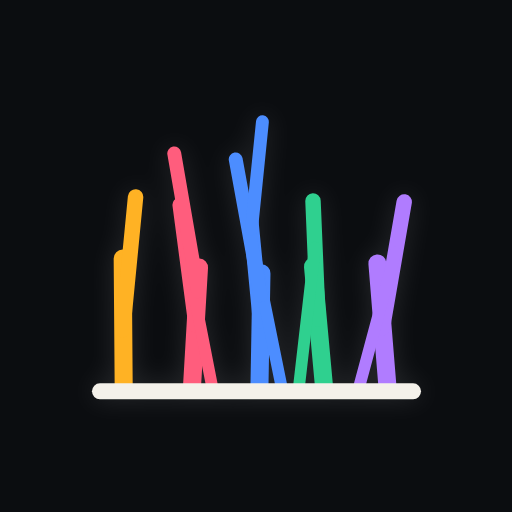
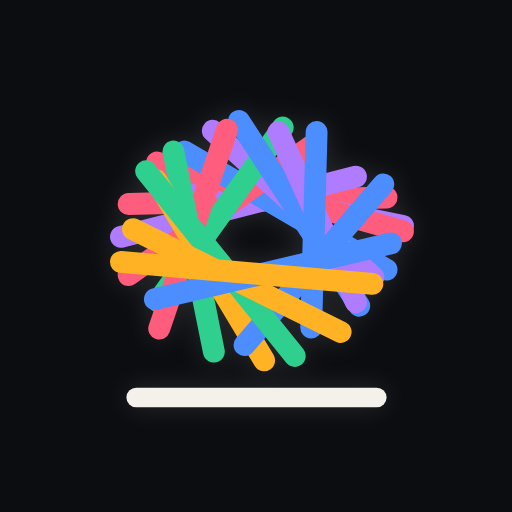
Wertegerüst: Gerüst als Tensegrity-Wolke aus bunten Stäben, von Spannseilen gehalten, mit Legende der Stützen
Claude-Session: https://claude.ai/code/session_019JxwgCXWc8WfoLy2FpCM1A

Changed region(s): [[0.1562, 0.2188, 0.8438, 0.8125]]

diff --git a/wertegeruest/index.html b/wertegeruest/index.html
@@ -411,6 +411,31 @@ textarea:focus,input:focus{outline:none;border-color:var(--muted)}
 .slot .psvg{width:100%;height:84px;display:block}
 .slot{min-height:0;justify-content:flex-start;padding-top:8px}
 .lead+.muted{margin-top:12px}
+/* Tensegrity-Wolke */
+.gsvg .cb{stroke:var(--lit);stroke-width:.9;opacity:.38}
+.gsvg .ft{stroke:var(--lit);stroke-width:.9;opacity:.45;stroke-dasharray:none}
+.gsvg .ft.gh{stroke:var(--ghost);stroke-dasharray:2 5;opacity:1}
+.gsvg .br{stroke-width:2.4;stroke-dasharray:none;opacity:.95}
+.gsvg .hitl{stroke:transparent;stroke-width:16;cursor:pointer}
+.gsvg .nd{r:2.2;stroke-width:1.2}
+.gsvg.sel .cb{opacity:.15}
+.gsvg .glow line{stroke-width:9;opacity:.35}
+.fundlbl{text-align:center;font-family:var(--f-mono);font-size:10px;letter-spacing:.24em;text-transform:uppercase;color:var(--muted);margin-top:-2px;cursor:pointer}
+.glegend{display:grid;grid-template-columns:repeat(5,1fr);gap:6px;margin-top:16px}
+.lg{position:relative;overflow:hidden;display:flex;flex-direction:column;align-items:center;gap:7px;border:1px solid var(--line);border-radius:10px;background:none;padding:10px 4px 9px;cursor:pointer;min-width:0;transition:border-color .4s,background-color .4s}
+.lg .nm{font-size:11px;font-weight:600;color:var(--c);line-height:1.2;text-align:center;overflow-wrap:normal;word-break:normal;hyphens:manual}
+.lg .pips{display:flex;gap:3px}
+.lg .pips i{width:6px;height:6px;border-radius:50%;border:1px solid color-mix(in srgb,var(--c) 55%,transparent)}
+.lg .pips i.on{background:var(--c);border-color:var(--c)}
+.lg.on{border-color:var(--c);background:color-mix(in srgb,var(--c) 10%,transparent)}
+.lg.free{border-style:dashed;border-color:var(--ghost)}
+.lg.free .nm{color:var(--faint);font-family:var(--f-mono);font-weight:400;font-size:10px;letter-spacing:.1em}
+.lg .sw0{width:30px;height:6px}
+.slot .psvg{height:70px}
+.gsvg.sel .rod:not(.on){opacity:.16!important}
+.gsvg.sel .glow{opacity:.3}
+.steps5 li i{width:18px;height:4px;border-radius:2px;border:0;background:var(--ghost);transform:rotate(-24deg)}
+.steps5 li.ok i{background:var(--c,var(--lit))}
 
 </style>
 
@@ -1090,59 +1115,57 @@ const isWordBreak=id=>{const b=HY[id].split("-")[1];return b[0]===b[0].toLowerCa
 const two=id=>{const n=W[id].n;if(n.length<=9||!HY[id])return [n];const [a,b]=HY[id].split("-");return [a+(isWordBreak(id)?"-":""),b]};
 const shy=id=>HY[id]&&W[id].n.length>9?HY[id].replace("-",isWordBreak(id)?"&shy;":" "):W[id].n;
 
-/* Großes Gerüst: bunte Stäbe, die sich wie in einer Rauminstallation kreuzen und verbinden */
-const GY=300,PX=i=>48+i*66;
-const SHORT={zukunftsverantwortung:"Verantwortung",ehrfurcht:"Ehrfurcht",naturverbundenheit:"Naturverbunden",verantwortlichkeit:"Verantwortlich"};
+/* Das Gerüst als Tensegrity: Stäbe, die sich nicht stützen, sondern von Spannung gehalten werden.
+   Jedes Bauteil ist ein Stab. Zusammen bilden sie eine Wolke, die umso runder und dichter wird, je mehr gebaut ist.
+   Seile zwischen benachbarten Stabenden halten alles zusammen; geklärte Spannungen aus Belastungsproben werden zu farbigen Spannseilen. */
+const CX=180,CY=146,RX=136,RY=112,BASE=292,GA=137.508*Math.PI/180;
+const SHORT={zukunftsverantwortung:"Verantwortung",ehrfurcht:"Ehrfurcht"};
 const rnd=(seed,k)=>(hashStr(seed+"#"+k)%1000)/1000;
-const lerp=(p,q,t)=>[p[0]+(q[0]-p[0])*t,p[1]+(q[1]-p[1])*t];
-/* Fünf Stäbe pro Stütze: Ständer, Verlängerung, Strebe, zweiter Ständer, Krone. Die Lage hängt vom Wert ab, so wird jedes Gerüst ein wenig anders. */
-function rodsFor(seed,i){const bx=PX(i),r=k=>rnd(seed,k);
-  const P0=[bx-4+r(1)*8,GY],A=[bx+(r(2)-.5)*24,GY-112-r(3)*16];
-  const B0=lerp(P0,A,.42+r(4)*.16),B=[bx+(r(5)-.5)*38,GY-176-r(6)*16];
-  const side=r(7)>.5?1:-1,C0=[bx+side*(21+r(8)*8),GY],C1=lerp(B0,B,.6);
-  const D0=lerp(P0,A,.8),D=[bx-side*(9+r(9)*13),GY-226-r(10)*14];
-  const E0=lerp(B0,B,.82),E=[bx+(r(11)-.5)*22,GY-262-r(12)*10];
-  return [{a:P0,b:A,w:7},{a:B0,b:B,w:6},{a:C0,b:C1,w:4.6},{a:D0,b:D,w:5.4},{a:E0,b:E,w:5}]}
-function ext(a,b,e){const dx=b[0]-a[0],dy=b[1]-a[1],L=Math.hypot(dx,dy)||1;return [a[0],a[1],b[0]+dx/L*e,b[1]+dy/L*e]}
+function ext(a,b,e){const dx=b[0]-a[0],dy=b[1]-a[1],L=Math.hypot(dx,dy)||1;return [a[0]-dx/L*e,a[1]-dy/L*e,b[0]+dx/L*e,b[1]+dy/L*e]}
 const ln=(p,cls,extra)=>`<line class="${cls}" x1="${p[0].toFixed(1)}" y1="${p[1].toFixed(1)}" x2="${p[2].toFixed(1)}" y2="${p[3].toFixed(1)}" ${extra||""}/>`;
-const seedOf=(id,i)=>id||"frei"+i;
+/* Stab n (0 bis 24): Bauteil k der Stütze i liegt auf Platz n = k*5+i. Der goldene Winkel verteilt die Stäbe so, dass die Wolke in jedem Baustand ausgewogen ist. */
+function rod(n,seed){const j=k=>rnd(seed||"plan",n*7+k);
+  const t1=Math.PI/2+n*GA+(j(1)-.5)*.18,span=(118+j(2)*26)*Math.PI/180,t2=t1+span,r1=.8+j(3)*.2,r2=.8+j(4)*.2;
+  const a=[CX+RX*r1*Math.cos(t1),CY+RY*r1*Math.sin(t1)],b=[CX+RX*r2*Math.cos(t2),CY+RY*r2*Math.sin(t2)];
+  const z=Math.sin(t1+span/2);return {a,b,z,w:5.2+z*1.6}}
+const slotsNow=()=>[0,1,2,3,4].map(i=>S.kern[i]||null);
+function builtRods(slots){const out=[];slots.forEach((id,i)=>{if(!id)return;const l=level(id);for(let k=0;k<l;k++)out.push(Object.assign(rod(k*5+i,id),{id,k,i,cat:W[id].cat}))});return out.sort((p,q)=>p.z-q.z)}
+function cables(rods){const pts=[];rods.forEach((r,ri)=>{pts.push([r.a,ri]);pts.push([r.b,ri])});const set=new Set(),out=[];
+  pts.forEach(([p,ri],pi)=>{pts.map(([q,rj],qi)=>[Math.hypot(p[0]-q[0],p[1]-q[1]),qi,rj]).filter(x=>x[2]!==ri).sort((x,y)=>x[0]-y[0]).slice(0,2).forEach(([d,qi])=>{const k=Math.min(pi,qi)+"|"+Math.max(pi,qi);if(!set.has(k)&&d<120){set.add(k);out.push([p,pts[qi][0]])}})});return out}
 function geruestSVG(){
-  const slots=[0,1,2,3,4].map(i=>S.kern[i]||null),ns=nextStep(),R=slots.map((id,i)=>rodsFor(seedOf(id,i),i)),L=slots.map(id=>id?level(id):0);
-  let defs="",ghost="",glowS="",body="",nodes="",lbl="",hit="";
+  const slots=slotsNow(),ns=nextStep(),rods=builtRods(slots);let defs="",ghost="",glowS="",body="",nodes="",net="",ties="";
   const grad=(gid,p,c1,c2)=>{defs+=`<linearGradient id="${gid}" gradientUnits="userSpaceOnUse" x1="${p[0].toFixed(1)}" y1="${p[1].toFixed(1)}" x2="${p[2].toFixed(1)}" y2="${p[3].toFixed(1)}"><stop offset="0" style="stop-color:var(--c-${c1})"/><stop offset="1" style="stop-color:var(--c-${c2})"/></linearGradient>`;return `url(#${gid})`};
-  slots.forEach((id,i)=>{for(let k=L[i];k<5;k++){const rd=R[i][k],nx=(id&&ns.id===id&&k===L[i])||(!id&&!ns.id&&i===S.kern.length&&k===0);
-    ghost+=ln(ext(rd.a,rd.b,4),nx?"gh nx":"gh",nx&&id?`style="stroke:var(--c-${W[id].cat})"`:"")}});
-  for(let k=0;k<5;k++){
-    slots.forEach((id,i)=>{if(!id||k>=L[i])return;const rd=R[i][k],p=ext(rd.a,rd.b,k===0?5:8),c=W[id].cat;
-      body+=ln(p,"gap",`data-gap="${id}:${k}" style="stroke-width:${rd.w+4}"`)+ln(p,"rod",`data-seg="${id}:${k}" pathLength="100" style="stroke:var(--c-${c});stroke-width:${rd.w}"`);
-      glowS+=ln(p,"",`style="stroke:var(--c-${c})"`);nodes+=`<circle class="nd" cx="${rd.b[0].toFixed(1)}" cy="${rd.b[1].toFixed(1)}" r="${k===4?4.2:2.8}" ${k===4?`style="fill:var(--c-${c});stroke:var(--lit)"`:""}/>`});
-    /* Verbindungen zu Nachbarn: je höher beide stehen, desto dichter das Geflecht */
-    if(k>=1)for(let i=0;i<4;i++){const a=slots[i],b=slots[i+1];if(!a||!b||Math.min(L[i],L[i+1])<=k)continue;
-      const P=k%2?[R[i][k].b,R[i+1][k-1].b]:[R[i][k-1].b,R[i+1][k].b];const p=[P[0][0],P[0][1],P[1][0],P[1][1]],q=[p[0]-(p[2]-p[0])*.06,p[1]-(p[3]-p[1])*.06,p[2]+(p[2]-p[0])*.06,p[3]+(p[3]-p[1])*.06];
-      body+=ln(q,"gap pkgap",`style="stroke-width:7.5"`)+ln(q,"pk",`style="stroke:${grad(`pg${i}${k}`,q,W[a].cat,W[b].cat)}"`)}}
-  /* Streben aus Abwägungen: lange, dünne Stäbe quer durchs Gerüst */
-  braces().forEach(([a,b],n)=>{const i=slots.indexOf(a),j=slots.indexOf(b);if(i<0||j<0)return;const [p,q]=i<j?[i,j]:[j,i];const h=Math.max(1,Math.min(L[p],L[q]));
-    const e=ext(R[p][0].a,R[q][h-1].b,10);body+=ln(e,"gap brgap",`style="stroke-width:5.5"`)+ln(e,"br",`style="stroke:${grad(`bg${n}`,e,W[slots[p]].cat,W[slots[q]].cat)}"`)});
-  slots.forEach((id,i)=>{const row=i%2?GY+40:GY+22;
-    if(!id){lbl+=`<text class="lb free" x="${PX(i)}" y="${row}" text-anchor="middle">frei</text>`;hit+=`<rect class="hit" data-slot="${i}" x="${PX(i)-33}" y="20" width="66" height="${GY+30}" role="button" aria-label="Freier Platz, Werte finden"/>`;return}
-    const w=W[id],nm=SHORT[id]||w.n;lbl+=`<line class="ld" x1="${PX(i)}" y1="${GY+6}" x2="${PX(i)}" y2="${row-11}" style="stroke:var(--c-${w.cat})"/><text class="lb" x="${Math.min(352-nm.length*3.1,Math.max(8+nm.length*3.1,PX(i)))}" y="${row}" text-anchor="middle" style="fill:var(--c-${w.cat})">${nm}</text>`;
-    hit+=`<rect class="hit" data-pil="${id}" x="${PX(i)-33}" y="20" width="66" height="${GY+30}" role="button" tabindex="0" aria-label="${w.n}, Stufe ${L[i]} von 5"/>`});
-  return `<svg class="gsvg" viewBox="0 18 360 346" role="img" aria-label="Dein Wertegerüst mit ${parts()} von 25 Bauteilen">
-    <defs><filter id="gb" x="-60%" y="-30%" width="220%" height="160%"><feGaussianBlur stdDeviation="7"/></filter>${defs}</defs>
-    <g class="ghost">${ghost}</g><g class="glow" filter="url(#gb)">${glowS}</g>${body}${nodes}
-    <g class="slab" role="button" aria-label="Fundament Würde">${ln([12,GY+2,348,GY+2],"base")}<text x="180" y="${GY+58}" text-anchor="middle">WÜRDE · FUNDAMENT</text></g>
-    ${lbl}${hit}</svg>`}
-/* Eine einzelne Stütze für die Übersicht unter „Werte“ */
-function pillarSVG(id,i){const R=rodsFor(seedOf(id,i),i),l=id?level(id):0,c=id?W[id].cat:null;let g="";
-  R.forEach((rd,k)=>{const on=k<l;g+=`<line x1="${rd.a[0].toFixed(1)}" y1="${rd.a[1].toFixed(1)}" x2="${rd.b[0].toFixed(1)}" y2="${rd.b[1].toFixed(1)}" ${on?`stroke="var(--c-${c})" stroke-width="${rd.w*1.1}"`:`stroke="var(--ghost)" stroke-width="1.6" stroke-dasharray="2 5"`} stroke-linecap="round"/>`});
-  return `<svg class="psvg" viewBox="${PX(i)-46} 20 92 ${GY-14}" aria-hidden="true">${g}<line x1="${PX(i)-40}" y1="${GY+2}" x2="${PX(i)+40}" y2="${GY+2}" stroke="var(--lit)" stroke-width="4" stroke-linecap="round"/></svg>`}
-/* Kleines Gerüst für Logo und Momente; ohne eigene Stützen ein Beispiel */
-const SAMPLE=["mut","vertrauen","gerechtigkeit","genuegsamkeit","wahrhaftigkeit"],SAMPLEL=[2,4,5,3,3];
-function miniSVG(cls){const has=S.kern.length>0;let g="";
-  for(let k=0;k<5;k++)for(let i=0;i<5;i++){const id=has?S.kern[i]:SAMPLE[i];if(!id)continue;const l=has?level(id):SAMPLEL[i];if(k>=l)continue;const rd=rodsFor(seedOf(id,i),i)[k];
-    g+=`<line x1="${rd.a[0].toFixed(0)}" y1="${rd.a[1].toFixed(0)}" x2="${rd.b[0].toFixed(0)}" y2="${rd.b[1].toFixed(0)}" stroke="var(--c-${W[id].cat})" stroke-width="${rd.w*2.6}" stroke-linecap="round"/>`}
-  if(has&&!g)for(let i=0;i<5;i++)g+=`<line x1="${PX(i)}" y1="${GY}" x2="${PX(i)}" y2="${GY-60}" stroke="var(--ghost)" stroke-width="8" stroke-linecap="round" stroke-dasharray="6 14"/>`;
-  return `<svg class="${cls||""}" viewBox="10 20 340 300" aria-hidden="true">${g}<line x1="22" y1="${GY+6}" x2="338" y2="${GY+6}" stroke="var(--lit)" stroke-width="16" stroke-linecap="round"/></svg>`}
+  /* Bauplan: alle 25 Plätze fein angedeutet, der nächste schimmert */
+  for(let n=0;n<25;n++){const i=n%5,k=Math.floor(n/5),id=slots[i];if(id&&k<level(id))continue;const r=rod(n,id);
+    const nx=(id&&ns.id===id&&k===level(id))||(!id&&!ns.id&&i===S.kern.length&&k===0);ghost+=ln(ext(r.a,r.b,2),nx?"gh nx":"gh",nx&&id?`style="stroke:var(--c-${W[id].cat})"`:"")}
+  cables(rods).forEach(([p,q])=>{net+=ln([p[0],p[1],q[0],q[1]],"cb")});
+  braces().forEach(([x,y],m)=>{const A=rods.filter(r=>r.id===x),B=rods.filter(r=>r.id===y);if(!A.length||!B.length)return;let best=null;
+    A.forEach(r=>B.forEach(s2=>[[r.a,s2.b],[r.b,s2.a],[r.a,s2.a],[r.b,s2.b]].forEach(([p,q])=>{const d=Math.hypot(p[0]-q[0],p[1]-q[1]);if(!best||d<best[0])best=[d,p,q]})));
+    const pq=[best[1][0],best[1][1],best[2][0],best[2][1]];ties+=ln(pq,"br",`data-br="${x}|${y}" style="stroke:${grad("bg"+m,pq,W[x].cat,W[y].cat)}"`)});
+  rods.forEach(r=>{const p=ext(r.a,r.b,4),key=r.id+":"+r.k,op=(.78+r.z*.22).toFixed(2);
+    body+=ln(p,"gap",`data-gap="${key}" style="stroke-width:${(r.w+3.5).toFixed(1)}"`)+ln(p,"rod",`data-seg="${key}" pathLength="100" style="stroke:var(--c-${r.cat});stroke-width:${r.w.toFixed(1)};opacity:${op}"`)+ln(p,"hitl",`data-pil="${r.id}"`);
+    glowS+=ln(p,"",`style="stroke:var(--c-${r.cat})"`);nodes+=[r.a,r.b].map(q=>`<circle class="nd" cx="${q[0].toFixed(1)}" cy="${q[1].toFixed(1)}" r="2.2"/>`).join("")});
+  /* Die Wolke ruht über dem Fundament, gehalten von drei Seilen zu den untersten Punkten */
+  let feet="";const low=rods.flatMap(r=>[r.a,r.b]).sort((p,q)=>q[1]-p[1]).slice(0,3);low.forEach((p,i)=>{feet+=ln([p[0],p[1],[110,180,250][i],BASE],"ft")});
+  if(!rods.length)[110,180,250].forEach(x=>{feet+=ln([x,CY+RY*.9,x,BASE],"ft gh")});
+  const legend=`<div class="glegend">${slots.map((id,i)=>{if(!id)return `<button class="lg free" data-finder="1"><span class="sw0"></span><span class="nm">frei</span></button>`;const w=W[id],l=level(id);
+    return `<button class="lg" ${cc(w.cat)} data-pil="${id}" aria-label="${w.n}, Stufe ${l} von 5"><span class="nm">${id==="zukunftsverantwortung"||id==="ehrfurcht"?SHORT[id]:shy(id)}</span><span class="pips">${[0,1,2,3,4].map(k=>`<i class="${k<l?"on":""}"></i>`).join("")}</span></button>`}).join("")}</div>`;
+  return `<svg class="gsvg" viewBox="0 6 360 300" role="img" aria-label="Dein Wertegerüst mit ${parts()} von 25 Bauteilen">
+    <defs><filter id="gb" x="-30%" y="-30%" width="160%" height="160%"><feGaussianBlur stdDeviation="7"/></filter>${defs}</defs>
+    <g class="ghost">${ghost}</g><g class="glow" filter="url(#gb)">${glowS}</g>${feet}${net}${body}${ties}${nodes}
+    <g class="slab" role="button" aria-label="Fundament Würde">${ln([40,BASE,320,BASE],"base")}<rect class="hit" x="30" y="${BASE-10}" width="300" height="24"/></g>
+    </svg><div class="fundlbl" data-wurde="1">Würde · Fundament</div>${legend}`}
+/* Eine einzelne Stütze innerhalb der Wolke, für die Übersicht unter „Werte“ */
+function pillarSVG(id,i){let g="";for(let k=0;k<5;k++){const r=rod(k*5+i,id),on=id&&k<level(id);
+    g+=`<line x1="${r.a[0].toFixed(0)}" y1="${r.a[1].toFixed(0)}" x2="${r.b[0].toFixed(0)}" y2="${r.b[1].toFixed(0)}" ${on?`stroke="var(--c-${W[id].cat})" stroke-width="14"`:`stroke="var(--ghost)" stroke-width="5" stroke-dasharray="6 14"`} stroke-linecap="round"/>`}
+  return `<svg class="psvg" viewBox="30 20 300 260" aria-hidden="true">${g}</svg>`}
+/* Kleine Wolke für Logo und Momente; ohne eigene Stützen ein Beispiel */
+const SAMPLE=["mut","vertrauen","gerechtigkeit","genuegsamkeit","wahrhaftigkeit"],SAMPLEL=[3,4,5,3,4];
+function miniSVG(cls){const has=S.kern.length>0;let g="";const list=[];
+  for(let i=0;i<5;i++){const id=has?S.kern[i]:SAMPLE[i];if(!id)continue;const l=has?level(id):SAMPLEL[i];for(let k=0;k<l;k++)list.push(Object.assign(rod(k*5+i,id),{cat:W[id].cat}))}
+  list.sort((p,q)=>p.z-q.z).forEach(r=>{g+=`<line x1="${r.a[0].toFixed(0)}" y1="${r.a[1].toFixed(0)}" x2="${r.b[0].toFixed(0)}" y2="${r.b[1].toFixed(0)}" stroke="var(--c-${r.cat})" stroke-width="20" stroke-linecap="round"/>`});
+  if(!list.length)for(let n=0;n<10;n++){const r=rod(n);g+=`<line x1="${r.a[0].toFixed(0)}" y1="${r.a[1].toFixed(0)}" x2="${r.b[0].toFixed(0)}" y2="${r.b[1].toFixed(0)}" stroke="var(--ghost)" stroke-width="8" stroke-linecap="round" stroke-dasharray="10 16"/>`}
+  return `<svg class="${cls||""}" viewBox="30 18 300 290" aria-hidden="true">${g}<line x1="70" y1="292" x2="290" y2="292" stroke="var(--lit)" stroke-width="18" stroke-linecap="round"/></svg>`}
 
 /* ---------- Reiter ---------- */
 const TABS=[["geruest","Gerüst"],["imp","Impulse"],["ueben","Üben"],["werte","Werte"]];
@@ -1221,7 +1244,7 @@ function viewGeruest(){
   </section>`}
 function pillarTap(id){const svg=document.querySelector(".gsvg");if(!svg)return;const w=W[id],l=level(id),n=nextFor(id);
   const was=svg.dataset.sel===id;svg.dataset.sel=was?"":id;svg.querySelectorAll(".rod").forEach(r=>r.classList.toggle("on",!was&&r.dataset.seg.startsWith(id+":")));
-  svg.classList.toggle("sel",!was);buzz([6,30,8]);
+  svg.classList.toggle("sel",!was);document.querySelectorAll(".glegend .lg").forEach(b=>b.classList.toggle("on",!was&&b.dataset.pil===id));buzz([6,30,8]);
   if(was){$("#ginfo").innerHTML="";return}
   const segs=[...svg.querySelectorAll(`.rod[data-seg^="${id}:"]`)];if(!calm())segs.forEach((s,i)=>s.animate([{opacity:1},{opacity:.45,offset:.35},{opacity:1}],{duration:650,delay:i*60,easing:"ease-out"}));
   if(segs.length)lightUp(segs[segs.length-1]);
@@ -1253,9 +1276,9 @@ let confirmReset=false;
 function aboutFold(){return `<details class="fold" id="aboutfold" ${S.aboutOpen||confirmReset?"open":""}><summary><span>Über diese App</span><span class="label">Haltung · Quellen</span>${CHEV}</summary><div class="fbody about">
   <p>Das Wertegerüst hilft dir, dir Schritt für Schritt klar zu werden, wofür du stehst. Es gibt keine richtigen Werte, die du übernehmen musst. Nur die Würde jedes Menschen ist als Fundament schon eingebaut, weil sie für alle gilt, auch für Menschen, deren Taten du entschieden ablehnst.</p>
   <p>Werte geraten oft in Spannung zueinander. Das ist kein Zeichen von Haltlosigkeit, sondern normal. Stabil wird ein Gerüst, wenn du deine Werte kennst, sie in schwierigen Lagen abwägst und sie im Alltag lebst. Darum gibt es Impulse zum Nachdenken, Belastungsproben zum Entscheiden und Übungen zum Tun.</p>
-  <h3>So wächst eine Stütze</h3><p>Jede Stütze hat fünf Bauteile: gewählt, Leitsatz, geprüft, gelebt und bekräftigt. Bretter verbinden Nachbarn, die gleich hoch stehen. Streben entstehen, wenn du in einer Probe zwischen zwei deiner Stützen abgewogen hast.</p>
+  <h3>So wächst eine Stütze</h3><p>Jede Stütze hat fünf Bauteile: gewählt, Leitsatz, geprüft, gelebt und bekräftigt. Die Stäbe berühren sich kaum. Wie bei einer Tensegrity-Skulptur hält Spannung das Ganze zusammen: feine Seile verbinden benachbarte Stabenden, und wenn du in einer Belastungsprobe zwischen zwei deiner Werte abgewogen hast, kommt ein farbiges Spannseil dazu. Werte dürfen also in Spannung zueinander stehen. Gerade das macht das Gerüst stabil.</p>
   <h3>Wie sicher ist ein Impuls?</h3><div class="legend">${[3,2,1,0].map(l=>`<div>${evHTML(l)}<span class="muted">${["Philosophie, Zeitzeugnis oder Denkmodell","eine einzelne Studie oder nur Zusammenhänge","mehrere Studien, aber mit Grenzen","Meta-Analysen, große Längsschnitte oder sehr viele Studien"][l]}</span></div>`).join("")}</div>
-  <p class="muted small">Stand der Recherche: Oktober 2026. App-Version vom 18.10.2026, 08:12 Uhr. Die App ersetzt keine Beratung oder Therapie. Wenn es dir schlecht geht, ist die Telefonseelsorge rund um die Uhr erreichbar: 0800 111 0 111. Alles, was du hier wählst, schreibst und entscheidest, bleibt nur in diesem Browser auf diesem Gerät.</p>
+  <p class="muted small">Stand der Recherche: Oktober 2026. App-Version vom 18.10.2026, 08:34 Uhr. Die App ersetzt keine Beratung oder Therapie. Wenn es dir schlecht geht, ist die Telefonseelsorge rund um die Uhr erreichbar: 0800 111 0 111. Alles, was du hier wählst, schreibst und entscheidest, bleibt nur in diesem Browser auf diesem Gerät.</p>
   <div class="row"><button class="btn" id="shareapp">App weiterempfehlen</button></div>
   <div class="row">${confirmReset?`<span>Wirklich alles löschen?</span><button class="btn primary" id="resetyes">Ja, löschen</button><button class="btn" id="resetno">Abbrechen</button>`:`<button class="linkbtn" id="reset">Fortschritt zurücksetzen</button>`}</div>
   <div class="credit"><span class="label">Von wem</span><p>Das Wertegerüst ist ein privates Projekt von <b>Carlo Maximilian Engeländer</b>. Idee, Auswahl, Texte und Gestaltung stammen von ihm.</p><p class="muted small">© 2026 Carlo Maximilian Engeländer. Alle Rechte vorbehalten. Du darfst die App gern nutzen und den Link weitergeben, auch im Unterricht. Inhalte, Texte und Gestaltung dürfen aber nicht ohne Erlaubnis kopiert, verändert oder anderswo veröffentlicht werden.</p></div>
@@ -1535,7 +1558,7 @@ function checkRow(id){const e=U[id],v=S.ueb[id];if(!(e.d>=3))return "";const di=
 
 /* ---------- Momente: selten und nüchtern ---------- */
 const MOMENTS=[
- {id:"kern1",t:"Die erste Stütze",x:"Sie steht jetzt in deinem Gerüst. Mit jedem Bauteil wird sie höher.",ok:()=>S.kern.length>=1},
+ {id:"kern1",t:"Die erste Stütze",x:"Sie steht jetzt in deinem Gerüst. Mit jedem Bauteil kommt ein Stab dazu.",ok:()=>S.kern.length>=1},
  {id:"leit1",t:"Der erste Leitsatz",x:"Die App fragt in ein paar Tagen nach, ob du noch dazu stehst.",ok:()=>S.kern.some(hasLeit)},
  {id:"probe1",t:"Die erste Entscheidung",x:"Deine Wahl zählt für die Werte, die sie stärkt.",ok:()=>nPrDone()>=1},
  {id:"kern5",t:"Fünf Stützen",x:"Dein Gerüst hat jetzt alle Stützen. Ab jetzt geht es darum, sie zu festigen.",ok:()=>S.kern.length>=5},
@@ -1592,7 +1615,7 @@ function render(){
   checkMoments()}
 function openProbe(id){if($("#layer").innerHTML)$("#layer").innerHTML="";pcur=id;pFilter="alle";anim=true;tab="ueben";render();const el=$("#probe");if(el){el.scrollIntoView({block:"start",behavior:calm()?"auto":"smooth"});setTimeout(()=>trace(el,`var(--c-${P[id].cat})`),350)}}
 document.addEventListener("click",e=>{
-  if(e.target.closest){const g=e.target.closest(".gsvg");if(g){const h=e.target.closest("[data-pil]");if(h){pillarTap(h.dataset.pil);return}const sl=e.target.closest("[data-slot]");if(sl){buzz(6);if(!S.kern.length){finder();return}anim=true;tab="werte";render();window.scrollTo(0,0);return}if(e.target.closest(".slab")){buzz(6);valueSheet("wuerde");return}}}
+  if(e.target.closest){const lg=e.target.closest(".glegend [data-pil]");if(lg){pillarTap(lg.dataset.pil);return}if(e.target.closest("[data-wurde]")){buzz(6);valueSheet("wuerde");return}const g=e.target.closest(".gsvg");if(g){const h=e.target.closest("[data-pil]");if(h){pillarTap(h.dataset.pil);return}const sl=e.target.closest("[data-slot]");if(sl){buzz(6);if(!S.kern.length){finder();return}anim=true;tab="werte";render();window.scrollTo(0,0);return}if(e.target.closest(".slab")){buzz(6);valueSheet("wuerde");return}}}
   const t=e.target.closest("button,a");if(!t)return;const d=t.dataset;
   if(finderClick(t,d))return;
   if(t.closest(".bite .links")&&!t.dataset.lit){t.dataset.lit=1;buzz([6,30,10]);trace(t,getComputedStyle(t).getPropertyValue("--c").trim()||null);
@@ -1663,7 +1686,7 @@ function fromHash(){const h=location.hash.slice(1);if(["imp","werte","ueben","ge
 if(location.hash)fromHash();
 window.addEventListener("hashchange",()=>{fromHash();render()});
 shownDay=todayKey();render();
-const BUILD="18.10.2026, 08:12";
+const BUILD="18.10.2026, 08:34";
 function checkUpdate(){if(!/github\.io$/.test(location.hostname))return;
   fetch(location.pathname,{cache:"reload"}).then(r=>r.text()).then(t=>{const m=t.match(/const BUILD="([^"]+)"/);if(!m||m[1]===BUILD)return;
     let done=null;try{done=sessionStorage.getItem("wg-upd")}catch(e){}if(done===m[1])return;
